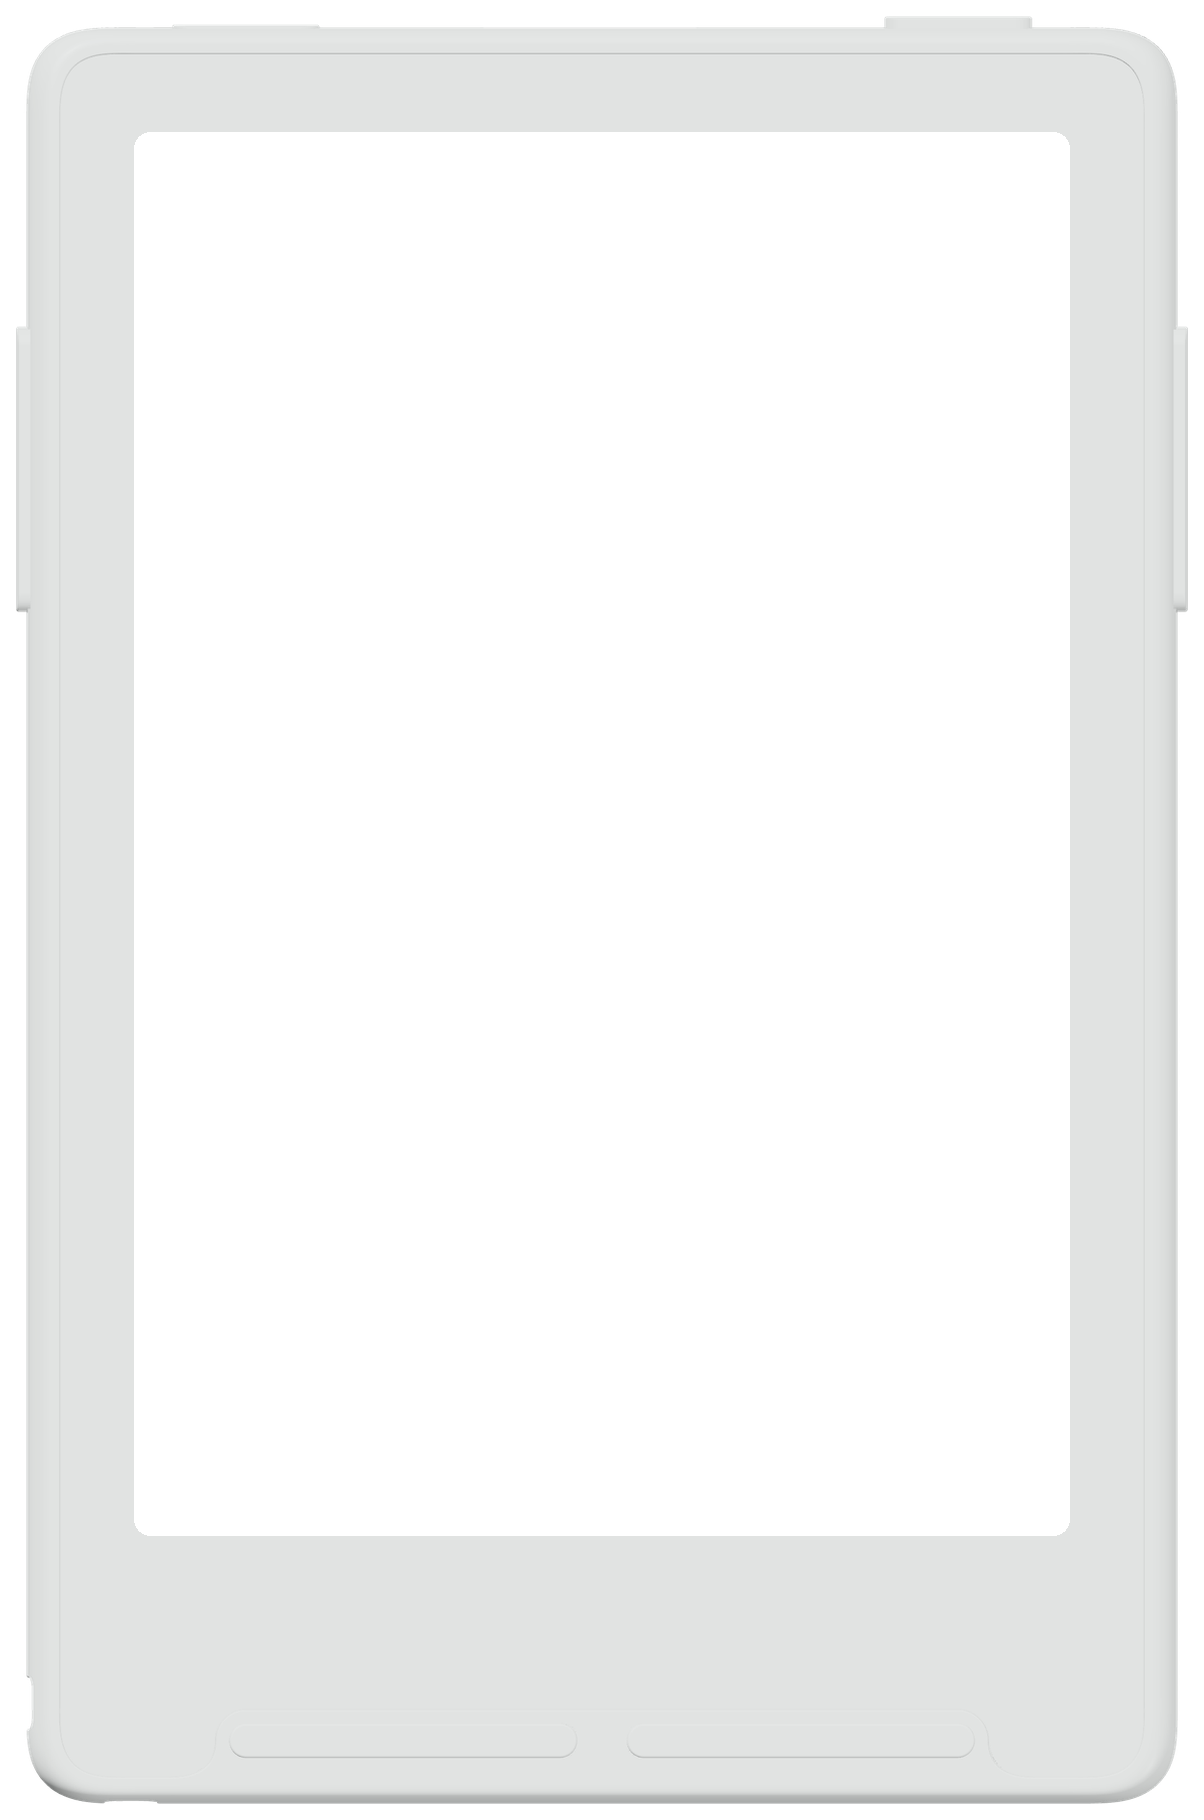
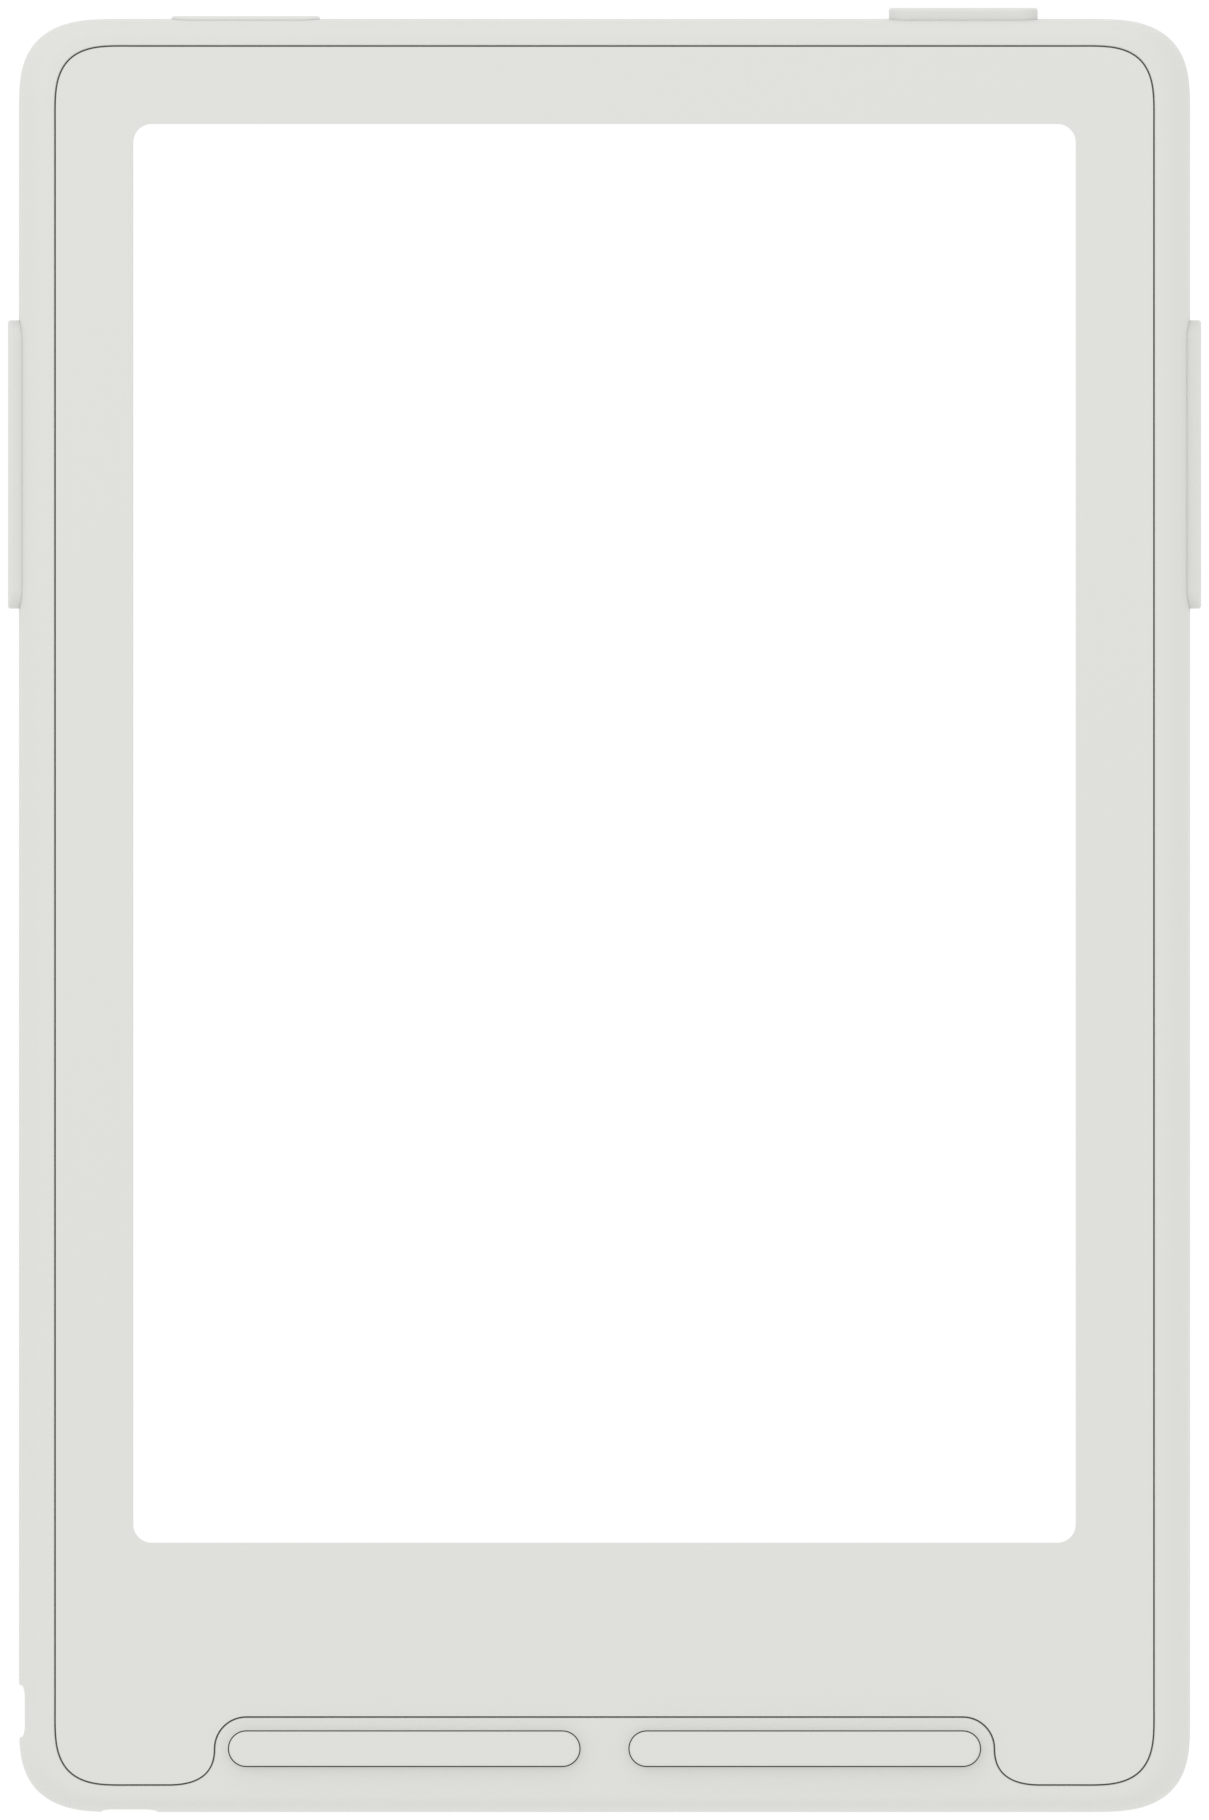
fix(preview): render the device frames from the official models
The frames were hand-made and carried three separate defects. The aperture was
cut inside the real glass, leaving three opaque light-grey columns beside it
that show as vertical lines whenever the page is dark. The page was placed
exactly at the hole, so the frame's anti-aliased rim composited against the
panel background and drew a second line just inside the first: measured against
a white page, two columns falling to 23. And nothing was lit, so the white
device's buttons were invisible against its body, at a measured contrast of
exactly zero.

They now come out of a renderer in fb2xt that cuts the aperture from the screen
mesh's own geometry and emits this table from the same run, so the two cannot
disagree. The aperture published here is the smallest rectangle of the panel's
exact aspect containing that hole, which keeps 1:1 landing on whole device
pixels while the page still covers the hole; the JSON beside each frame records
both rectangles.

Two tests updated rather than re-baselined. The tone endpoints move to the tint
measured off the device, and the geometry test swaps its cool-tint assertion for
the warm one, since blue above red was only ever a guess. It also now checks
that nothing opaque survives beside the aperture, which is the defect that
started this.

Changed region(s): [[0.0, 0.0, 1.0, 1.0], [0.1229, 0.8308, 0.8912, 0.8615], [0.1229, 0.0615, 0.8912, 0.0923]]

diff --git a/src/crossglyph/preview/static/js/device.js b/src/crossglyph/preview/static/js/device.js
@@ -35,23 +35,26 @@ function syncPreviewColumns() {
     Number(root.scrollWidth) > available ? "one" : "two";
 }
 
-// Geometry is in each normalized frame PNG's own pixels. The assets correct the
-// source renders to the documented body aspect and carry an aperture with the
-// native screen aspect. Runtime scaling is therefore one uniform factor.
+// Geometry in each frame PNG's own pixels, emitted by fb2xt's frame renderer
+// from the same run that produced the pixels, so the two cannot disagree. The
+// aperture is the outer bound of the screen hole, including its anti-aliased
+// rim: the page underlaps the frame rather than stopping at it, which is what
+// keeps a dark line from appearing down each side of the page. Runtime scaling
+// is one uniform factor.
 export const DEVICES = {
   x4: {
     native: {width: 480, height: 800},
-    frame: {width: 1147, height: 1820},
-    aperture: {x: 139, y: 114, width: 858, height: 1430, radius: 16},
-    body: {x: 16, y: 16, width: 1115, height: 1788,
-           widthMm: 69, heightMm: 111},
+    frame: {width: 1118, height: 1820},
+    aperture: {x: 118, y: 100, width: 873, height: 1455, radius: 16},
+    body: {x: 8, y: 8, width: 1091, height: 1804,
+           widthMm: 69.15, heightMm: 114.31},
   },
   x3: {
     native: {width: 528, height: 792},
-    frame: {width: 1204, height: 1820},
-    aperture: {x: 134, y: 132, width: 936, height: 1404, radius: 16},
-    body: {x: 16, y: 16, width: 1172, height: 1788,
-           widthMm: 63.7, heightMm: 97.6},
+    frame: {width: 1209, height: 1820},
+    aperture: {x: 130, y: 122, width: 948, height: 1422, radius: 16},
+    body: {x: 19, y: 19, width: 1171, height: 1793,
+           widthMm: 63.74, heightMm: 97.59},
   },
 };
 

diff --git a/tests/test_preview_server.py b/tests/test_preview_server.py
@@ -505,14 +505,17 @@ def test_the_page_and_its_modules_are_never_cached(client):
 
 
 @pytest.mark.parametrize(
-    ("device", "size", "aperture", "body_ratio"),
+    ("device", "size", "hole", "margin"),
     [
-        ("x4", (1147, 1820), (139, 114, 997, 1544), 69 / 111),
-        ("x3", (1204, 1820), (134, 132, 1070, 1536), 63.7 / 97.6),
+        ("x4", (1118, 1820), (118, 105, 990, 1551), 8),
+        ("x3", (1209, 1820), (132, 123, 1077, 1544), 8),
     ],
 )
 def test_device_frames_carry_normalized_geometry(
-        client, device, size, aperture, body_ratio):
+        client, device, size, hole, margin):
+    """The frames are rendered from the official models by fb2xt, which emits
+    the geometry from the same run that produced the pixels. What matters here
+    is that the shipped file still agrees with what the preview was told."""
     from PIL import Image, ImageStat
 
     for color in ("black", "white"):
@@ -520,23 +523,37 @@ def test_device_frames_carry_normalized_geometry(
         assert response.status_code == 200
         frame = Image.open(io.BytesIO(response.content)).convert("RGBA")
         assert frame.size == size
-        left, top, right, bottom = aperture
+        left, top, right, bottom = hole
         alpha = frame.getchannel("A")
-        assert alpha.getpixel(((left + right) // 2,
-                               (top + bottom) // 2)) == 0
-        assert alpha.getpixel((left, top)) > 0, \
-            "the screen aperture lost its rounded corner"
+        assert alpha.getpixel(((left + right) // 2, (top + bottom) // 2)) == 0
+
+        # Nothing opaque may survive just outside the hole. The frames this
+        # replaced left three columns of screen material there, which showed as
+        # grey lines down a night-mode page.
+        for offset in (2, 3, 4):
+            for x in (left - offset, right + offset - 1):
+                assert alpha.getpixel((x, (top + bottom) // 2)) == 255, \
+                    "the bezel beside the aperture is not solid"
+
+        # The body is fitted to the canvas margin, which is what fixes the
+        # frame's size; anti-aliasing puts the silhouette within a pixel of it.
         opaque = alpha.point(lambda value: 255 if value >= 128 else 0).getbbox()
         assert opaque is not None
-        ratio = (opaque[2] - opaque[0]) / (opaque[3] - opaque[1])
-        assert ratio == pytest.approx(body_ratio, abs=.006)
+        assert opaque[0] == pytest.approx(margin, abs=2)
+        assert opaque[1] == pytest.approx(margin, abs=2)
+        assert opaque[2] == pytest.approx(size[0] - margin, abs=2)
+        assert opaque[3] == pytest.approx(size[1] - margin, abs=2)
+
         body = frame.crop((size[0] // 4, 25, size[0] * 3 // 4, 100))
         red, green, blue = ImageStat.Stat(body.convert("RGB")).mean
         tone = (red + green + blue) / 3
         expected = (10, 22) if color == "black" else (210, 230)
         assert expected[0] <= tone <= expected[1]
-        assert green >= red and blue >= red, \
-            "the frame lost the product photograph's cool neutral tint"
+        # Measured off the device on white paper in shade: green highest, then
+        # red, then blue. A warm greenish white, not the cool one this asserted
+        # before anybody measured it.
+        assert green >= red >= blue, \
+            "the frame lost the tint measured off the device"
 
 
 @needs
